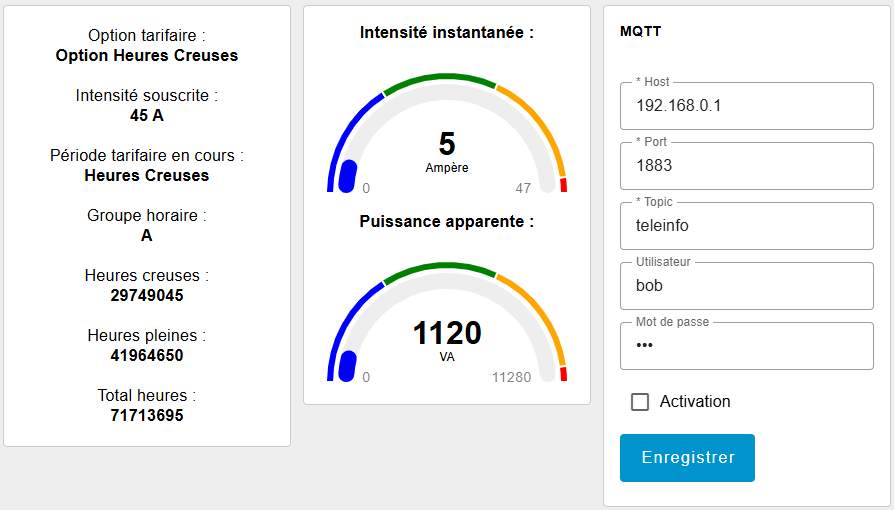
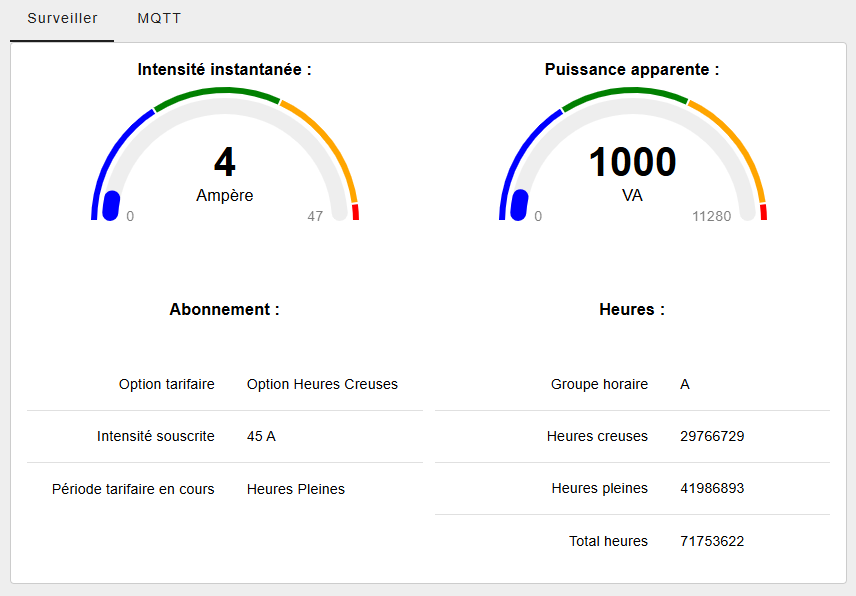
Update readme file and co

diff --git a/README.md b/README.md
@@ -1,7 +1,9 @@
 # README
 
-[![Release](https://img.shields.io/docker/v/jcpd/dknr-teleinfo?color=lightblue)](https://hub.docker.com/r/jcpd/dknr-teleinfo)
-[![License](https://img.shields.io/github/license/jcdenis/dknr-teleinfo?color=white)](https://github.com/JcDenis/dknr-teleinfo/blob/master/LICENSE)
+[![Release](https://img.shields.io/docker/v/jcpd/dknr-teleinfo)](https://img.shields.io/docker/v/jcpd/dknr-teleinfo)
+[![Pull](https://img.shields.io/docker/pulls/jcpd/dknr-teleinfo)](https://img.shields.io/docker/pulls/jcpd/dknr-teleinfo)
+[![Issue](https://img.shields.io/github/issues/jcdenis/dknr-teleinfo)](https://img.shields.io/github/issues/jcdenis/dknr-teleinfo)
+[![License](https://img.shields.io/github/license/jcdenis/dknr-teleinfo)](https://github.com/JcDenis/dknr-teleinfo/blob/master/LICENSE)
 
 
 ## A propos
@@ -10,7 +12,7 @@
 
 Il permet de collecter les informations transmises par la sortie Téléinformation Client (TIC), puis de les rendre disponibles pour leur consultation, leur traitement ou leur intégration dans un système domotique.
 
-![Dashboard Screenshot](https://github.com/JcDenis/dknr-teleinfo/blob/master/dknr-teleinfo_screenshot.png)
+[![Dashboard Screenshot](https://github.com/JcDenis/dknr-teleinfo/blob/master/dknr-teleinfo_screenshot.png)](https://github.com/JcDenis/dknr-teleinfo/blob/master/dknr-teleinfo_screenshot.png)
 
 
 ## Fonctionnalités
@@ -37,6 +39,19 @@ Le matériel exact dépend de l'installation, mais l'utilisation du projet néce
 Des images Docker prêtes à l'emploi sont disponibles. 
 Utilisez le fichier docker-compose.yaml à la racine du dépôt en fournissant les variables d'environnement suivant :
 
-* DKNR_USERNAME : login de l'interface node-red
-* DKNR_PASSWORD : mot de passe de l'interface node-red
-* DKNR_SECRET   : un mot secret pour encrypter les credits.
+* **DKNR_USERNAME** : login de l'interface node-red.
+* **DKNR_PASSWORD** : mot de passe de l'interface node-red.
+* **DKNR_SECRET**   : un mot secret pour encrypter les credits.
+
+
+## A faire
+
+* **Support triphasé**.
+* **Support multicompteur** et support multi port série/USB.
+* **Support Home-Assistant** pour les messages MQTT.
+* **Rétention de données** local ou configurateur pour une base distante.
+
+
+## Contribuer
+
+Ce projet est **open-source**, vous pouvez participer en créant des [tickets](https://github.com/JcDenis/dknr-teleinfo/issues) ou en proposant de [requêtes](https://github.com/JcDenis/dknr-teleinfo/pulls) sur le dépôt github du projet.

diff --git a/CONTRIBUTING.md b/CONTRIBUTING.md
@@ -1,0 +1,6 @@
+# CONTRIBUTING
+
+This program is an open source project. If you'd like to contribute, you can send a pull request, or feel free to use any other way you'd prefer.
+
+* Report bugs <https://github.com/JcDenis/dknr-teleinfo/issues/new>
+* Pull request <https://github.com/JcDenis/dknr-teleinfo/pulls>
